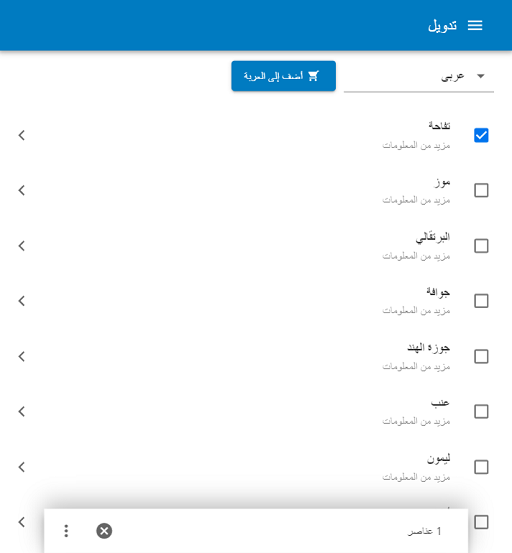
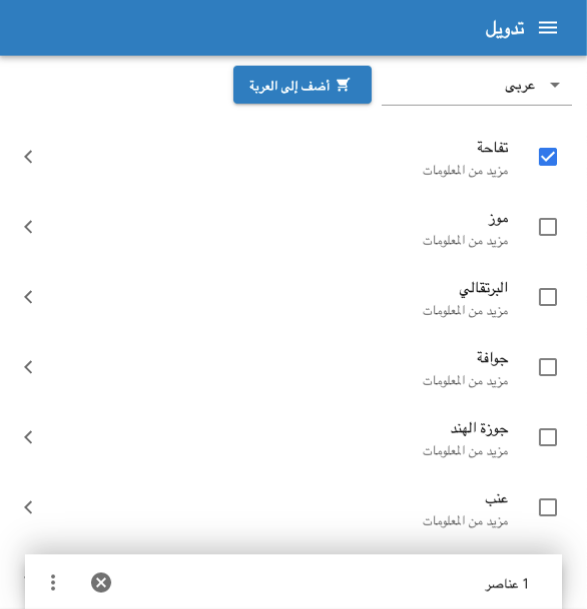
Adjust margin & spacing; add dividers

diff --git a/src/__configuration__/markdown/markdownMapping.tsx b/src/__configuration__/markdown/markdownMapping.tsx
@@ -3,30 +3,48 @@ import React from 'react';
 import { Typography, TypographyProps } from '@material-ui/core';
 import { Link, LinkProps } from 'react-router-dom';
 import './markdown.css';
+import * as Colors from '@pxblue/colors';
 
 export const ExternalLink = (tProps: TypographyProps<'a'>): JSX.Element => (
     <Typography
         component={'a'}
         target={'_blank'}
         rel="noopener noreferrer"
-        style={{ fontWeight: 600, textDecoration: 'none', color: '#007bc1' }}
+        style={{ fontWeight: 400, textDecoration: 'none', color: Colors.blue[500] }}
         {...tProps}
     />
 );
 
 export const InternalLink = (props: LinkProps): JSX.Element => (
-    <Link rel="noopener noreferrer" style={{ fontWeight: 600, textDecoration: 'none', color: '#007bc1' }} {...props} />
+    <Link
+        rel="noopener noreferrer"
+        style={{ fontWeight: 400, textDecoration: 'none', color: Colors.blue[500] }}
+        {...props}
+    />
 );
 
 export const componentsMap = {
     h1: (props: TypographyProps): JSX.Element => (
-        <Typography paragraph variant={'h4'} color={'primary'} className={'markdownH1'} {...props} />
+        <Typography
+            paragraph
+            variant={'h4'}
+            color={'primary'}
+            className={'markdownH1'}
+            style={{ marginBottom: 32 }}
+            {...props}
+        />
     ),
     h2: (props: TypographyProps): JSX.Element => (
-        <Typography paragraph variant={'h5'} color={'primary'} {...props} style={{ marginTop: 48 }} />
+        <Typography paragraph variant={'h6'} color={'primary'} {...props} style={{ marginTop: 64, marginBottom: 16 }} />
     ),
     h3: (props: TypographyProps): JSX.Element => (
-        <Typography paragraph variant={'h6'} color={'primary'} {...props} style={{ marginTop: 24 }} />
+        <Typography
+            paragraph
+            variant={'body1'}
+            color={'primary'}
+            {...props}
+            style={{ fontWeight: 600, marginTop: 32 }}
+        />
     ),
     h4: (props: TypographyProps): JSX.Element => (
         <Typography paragraph variant={'subtitle1'} color={'primary'} {...props} style={{ marginTop: 16 }} />
@@ -54,4 +72,7 @@ export const componentsMap = {
     },
     p: (props: TypographyProps): JSX.Element => <Typography paragraph {...props} />,
     li: (props: TypographyProps<'li'>): JSX.Element => <Typography component={'li'} className={'mdLi'} {...props} />,
+    blockquote: (props: TypographyProps<'blockquote'>): JSX.Element => (
+        <Typography component={'blockquote'} style={{ paddingRight: 16, marginBottom: 8 }} {...props} />
+    ),
 };

diff --git a/src/app/pages/ReleaseNotes.tsx b/src/app/pages/ReleaseNotes.tsx
@@ -3,7 +3,7 @@ import { Typography, useTheme } from '@material-ui/core';
 import { LatestReleases } from '../../docs';
 import * as Colors from '@pxblue/colors';
 import { ReleaseInfo } from '../../docs/release-notes';
-import { PageContent } from '../components';
+import { PageContent, Divider } from '../components';
 import { useBackgroundColor } from '../hooks/useBackgroundColor';
 import { usePageTitle } from '../hooks/usePageTitle';
 import { useGoogleAnalyticsPageView } from '../hooks/useGoogleAnalyticsPageView';
@@ -16,7 +16,7 @@ export const ReleaseNotes: React.FC = (): JSX.Element => {
 
     return (
         <PageContent>
-            {LatestReleases.map((item: ReleaseInfo) => (
+            {LatestReleases.map((item: ReleaseInfo, index: number) => (
                 <div key={item.title} style={{ marginBottom: theme.spacing(16) }}>
                     <Typography
                         variant={'h4'}
@@ -25,8 +25,9 @@ export const ReleaseNotes: React.FC = (): JSX.Element => {
                     >
                         {item.date}
                     </Typography>
-                    <Typography color={'inherit'} variant={'h6'}>{`v${item.version} (${item.title})`}</Typography>
+                    <Typography color={'textSecondary'} variant={'h6'}>{`v${item.version} (${item.title})`}</Typography>
                     {item.details}
+                    {index !== LatestReleases.length - 1 && <Divider />}
                 </div>
             ))}
         </PageContent>

diff --git a/src/app/router/navigationDrawer.tsx b/src/app/router/navigationDrawer.tsx
@@ -10,6 +10,8 @@ import { Typography, useTheme, useMediaQuery, createStyles, makeStyles, Theme } 
 import { useSelector, useDispatch } from 'react-redux';
 import { AppState } from '../redux/reducers';
 import { TOGGLE_DRAWER } from '../redux/actions';
+// import { IconButton } from '@material-ui/core';
+// import { ExpandMore } from '@material-ui/icons';
 
 const useStyles = makeStyles((theme: Theme) =>
     createStyles({
@@ -42,6 +44,17 @@ export const NavigationDrawer = (): JSX.Element => {
                 title: item.title,
                 icon: depth === 0 ? item.icon : undefined,
                 itemID: fullURL,
+                // To add a on hover effect to the ExpandMore chevron for NavItems
+                // with sub pages and a landing page (e.g., Design Patterns)
+                //
+                // expandIcon:
+                //     item.pages && item.component ? (
+                //         <IconButton>
+                //             <ExpandMore />
+                //         </IconButton>
+                //     ) : (
+                //         undefined
+                //     ),
                 onClick: item.component
                     ? (): void => {
                           history.push(fullURL);

diff --git a/src/app/components/layout/PageContent.tsx b/src/app/components/layout/PageContent.tsx
@@ -10,7 +10,7 @@ export type PageContentProps = HTMLAttributes<HTMLDivElement> & {
 
 const PAGE_WIDTH = {
     WIDE: 1024,
-    REGULAR: 660,
+    REGULAR: 676,
 };
 
 export const PageContent: React.FC<PageContentProps> = (props): JSX.Element => {
@@ -21,7 +21,7 @@ export const PageContent: React.FC<PageContentProps> = (props): JSX.Element => {
         <div
             style={Object.assign(
                 {
-                    padding: noPadding ? 0 : 8,
+                    padding: noPadding ? 0 : 16,
                     maxWidth: wideLayout ? PAGE_WIDTH.WIDE : PAGE_WIDTH.REGULAR,
                     margin: '0 auto',
                 },

diff --git a/src/app/components/layout/Divider.tsx b/src/app/components/layout/Divider.tsx
@@ -15,7 +15,7 @@ const useStyles = makeStyles((theme: Theme) =>
     createStyles({
         root: {
             width: `100%`,
-            margin: `${theme.spacing(12)}px 0`,
+            margin: `${theme.spacing(5)}px 0`,
         },
     })
 );
